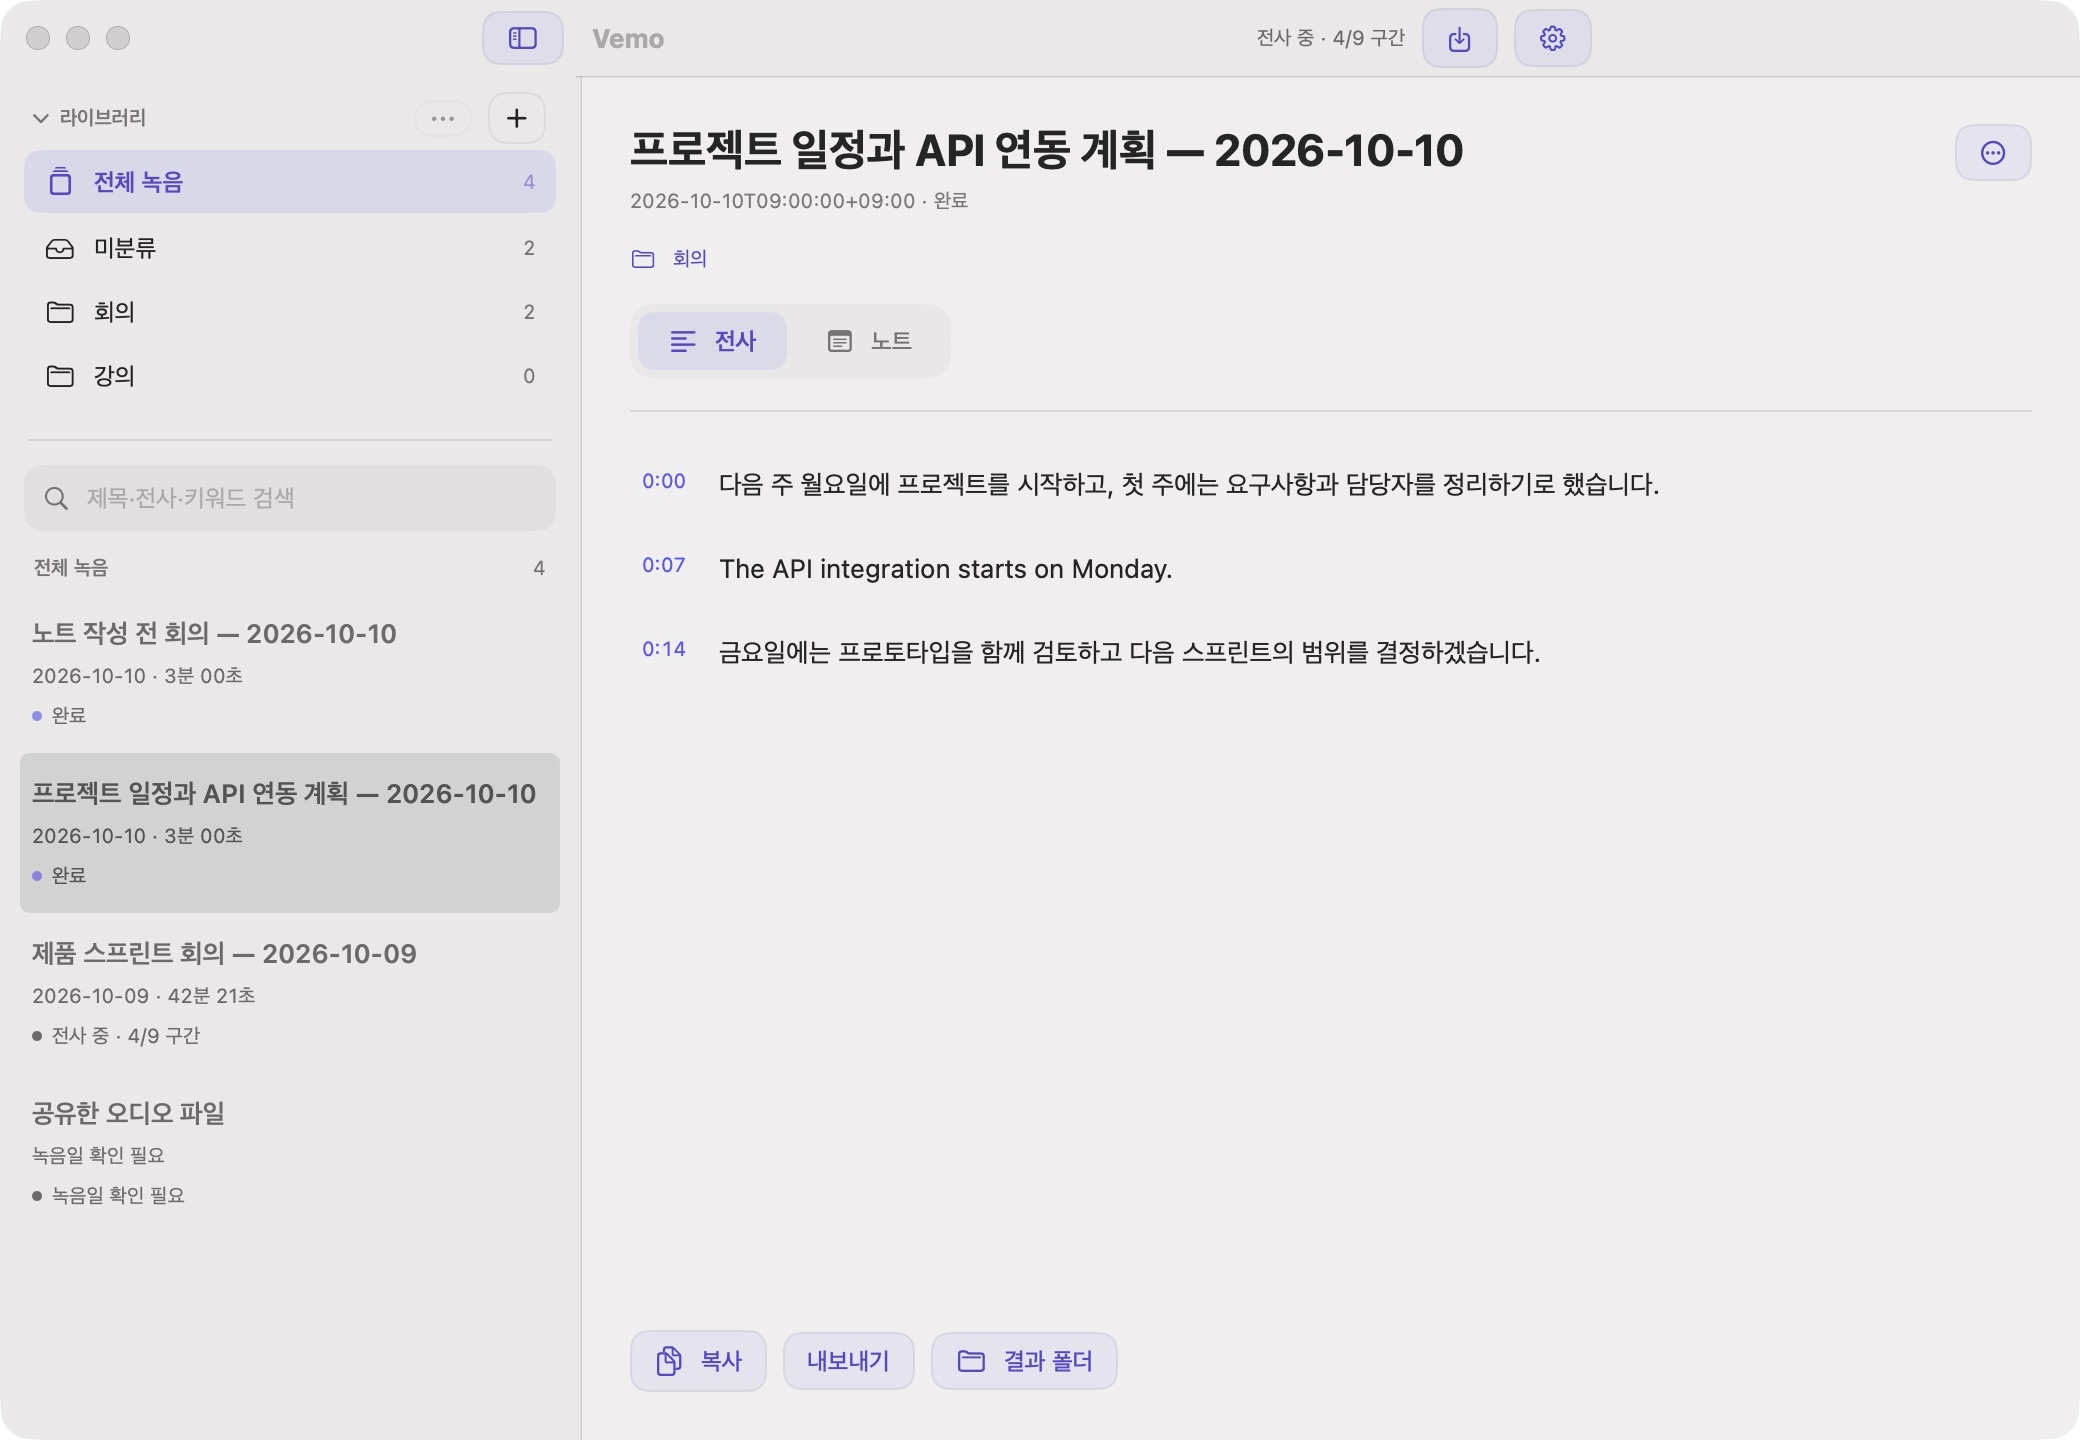
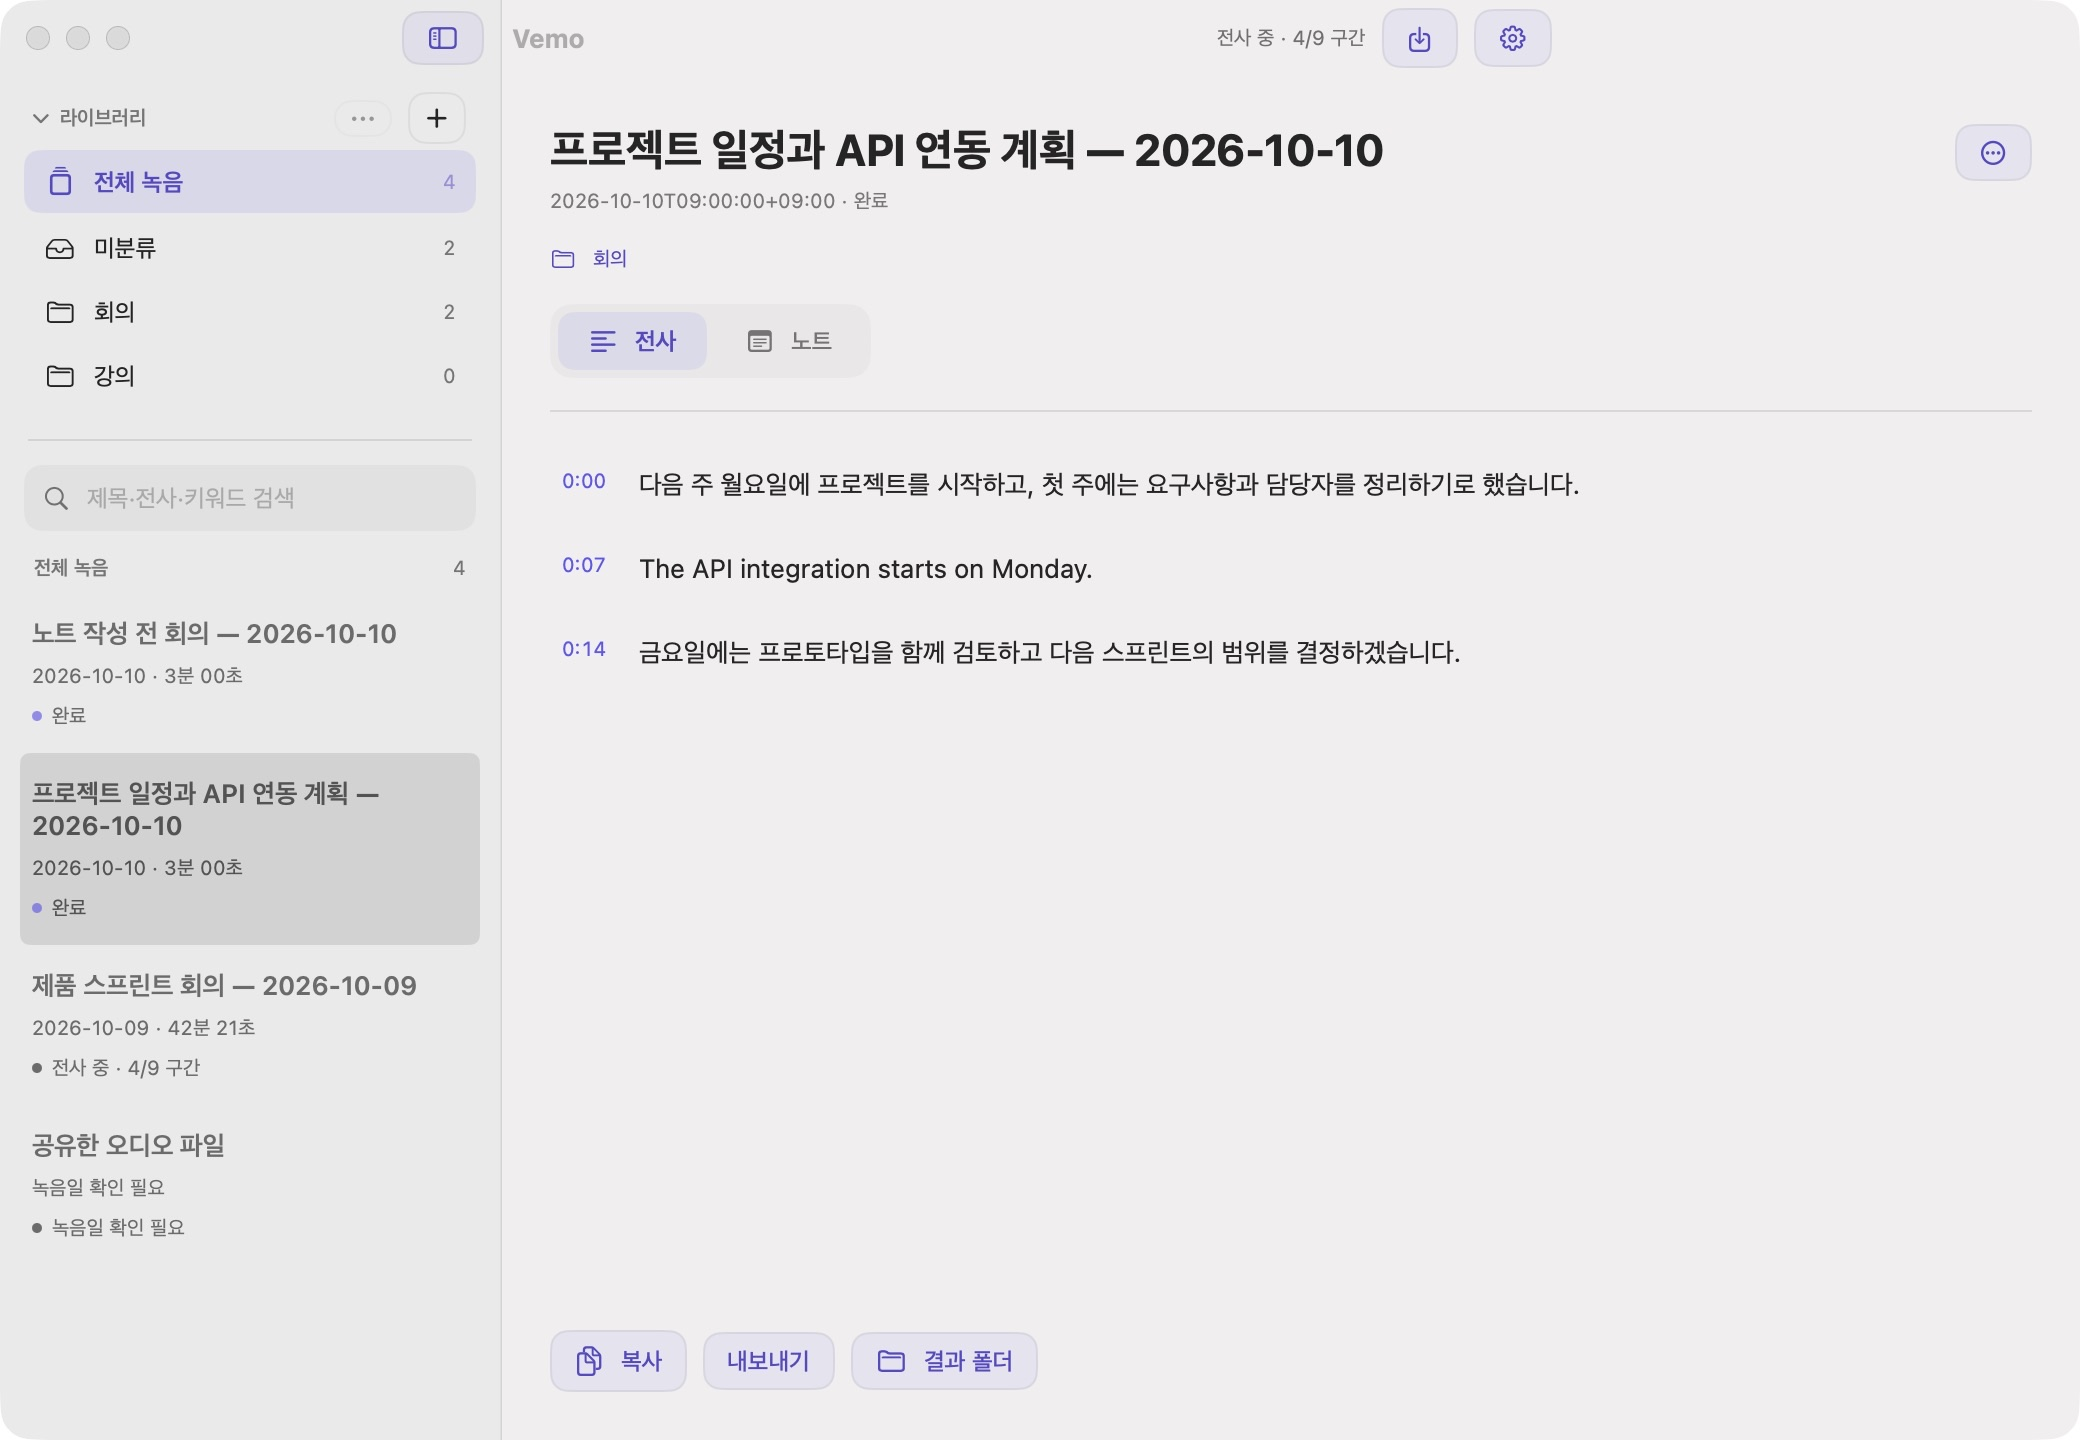
Align toolbar and library column boundaries

diff --git a/macos/Sources/VoiceMemoTranscriber/LibraryView.swift b/macos/Sources/VoiceMemoTranscriber/LibraryView.swift
@@ -30,7 +30,8 @@ struct LibraryView: View {
                             .contextMenu { RecordingFolderMenu(model: model, jobID: job.id) }
                     }.listStyle(.sidebar)
                 }
-            }.navigationSplitViewColumnWidth(min: 250, ideal: 290, max: 420)
+            }.frame(minWidth: 250, idealWidth: 290)
+                .navigationSplitViewColumnWidth(min: 250, ideal: 290, max: 420)
                 .toolbar(removing: .sidebarToggle)
                 .toolbar {
                     if columnVisibility != .detailOnly {
@@ -45,6 +46,8 @@ struct LibraryView: View {
             else { onboarding }
         }
         .toolbar(removing: .sidebarToggle)
+        // Let the full-height split panes draw one continuous column boundary.
+        .toolbarBackground(.hidden, for: .windowToolbar)
         .toolbar {
             ToolbarItem(placement: .navigation) {
                 if columnVisibility == .detailOnly { sidebarToggle }

diff --git a/docs/VALIDATION.md b/docs/VALIDATION.md
@@ -102,3 +102,20 @@ Installed build6 preserved Full Disk Access in a fresh diagnostic at `2026-10-11
 Final public build6 passed strict deep signing, DMG verification/read-only mount, Applications link and installation-notice checks. Every bundled engine source module matched the final project source. Bundled engine/MLX imports and the synthetic terminal-repair/missing-closure rejection checks passed outside the project with system-only PATH.
 
[1 lines of base64/hex data omitted]
+
+
+## 0.2 preview.3 column-boundary correction (2026-10-11)
+
+The user clarified that the remaining mismatch was the width/boundary of the toolbar's sidebar section versus the library pane below. Earlier control/inset checks did not establish this alignment. An initial build7 adjusted title and button insets instead; it was installed temporarily, then rejected by the user and superseded. It was never released publicly.
+
+A temporary synthetic-only native geometry probe showed a 290pt sidebar and a 1pt divider, while AppKit's detail titlebar background began at x=288pt and its 5pt blocking region overlapped the divider. The final change hides only the toolbar background with the supported SwiftUI API, allowing the full-height split panes to supply a continuous boundary. Toolbar controls remain native. The probe and its attachment were removed before packaging; no private AppKit view manipulation is shipped.
+
+A fresh profile also reproduced a 144pt initial sidebar despite the declared 250–420pt column range. An explicit sidebar frame minimum now enforces 250pt. A fresh final demo showed 250pt with an intact library header; the existing installed profile retained 264pt. CUA screenshots of both final views showed a continuous boundary from the toolbar through the library. Installed hide/show restored the sidebar and its original width. These checks ran at the default 1040×720pt window size; the final build was not checked on another display or physical Mac. The earlier narrow-window check applied to the superseded build7 and is not final-build evidence.
+
+Independent source review found no blocking API/layout issue and confirmed probe removal; it did not independently run the UI. The final product patch changes only LibraryView layout. Python, NativeCore and processing behavior are unchanged from preview.2, whose 76-test Python and 223-assertion native results remain prior evidence; these suites were not repeated for this layout-only correction.
+
+Local/public build8 and strict deep signatures passed. The local designated requirement exactly matches the prior installed app. A fresh installed diagnostic at `2026-10-11T13:59:02Z` returned `supported_schema`, `schema_verified=true`, without Full Disk Access re-registration. Policy remained `paused=false`, `ac_only=false`, with 5 completed jobs and 9 historical unprocessed jobs. The two unresolved long-note failures remain; this update does not retry or correct them.
+
+The DMG passed verification and read-only mount checks, version/build/public-ID checks, binary equality with the public app, Applications link/notices, all 14 bundled engine source modules matching project source, and bundled engine/MLX imports outside the project with system-only PATH. The image was ejected.
+
[1 lines of base64/hex data omitted]
